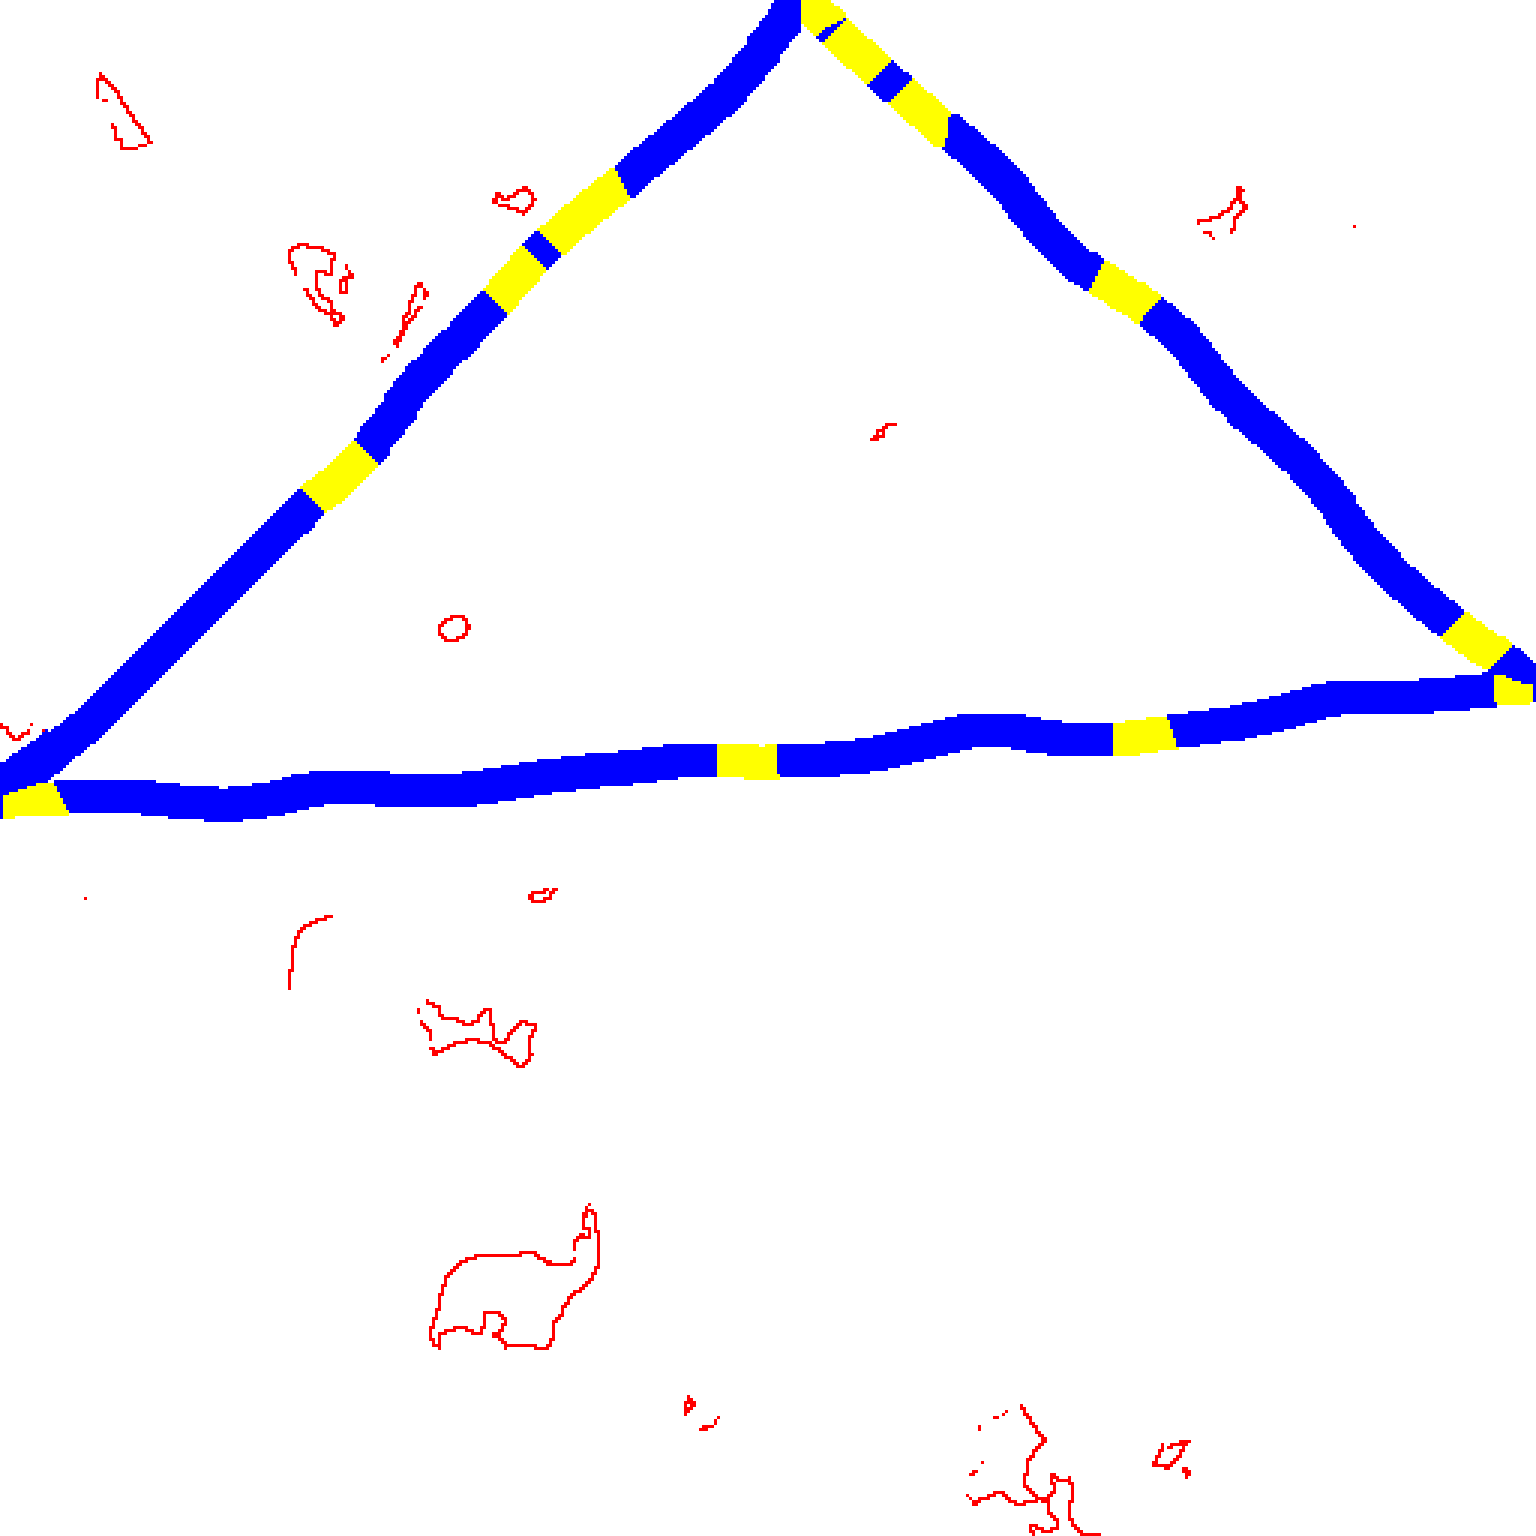
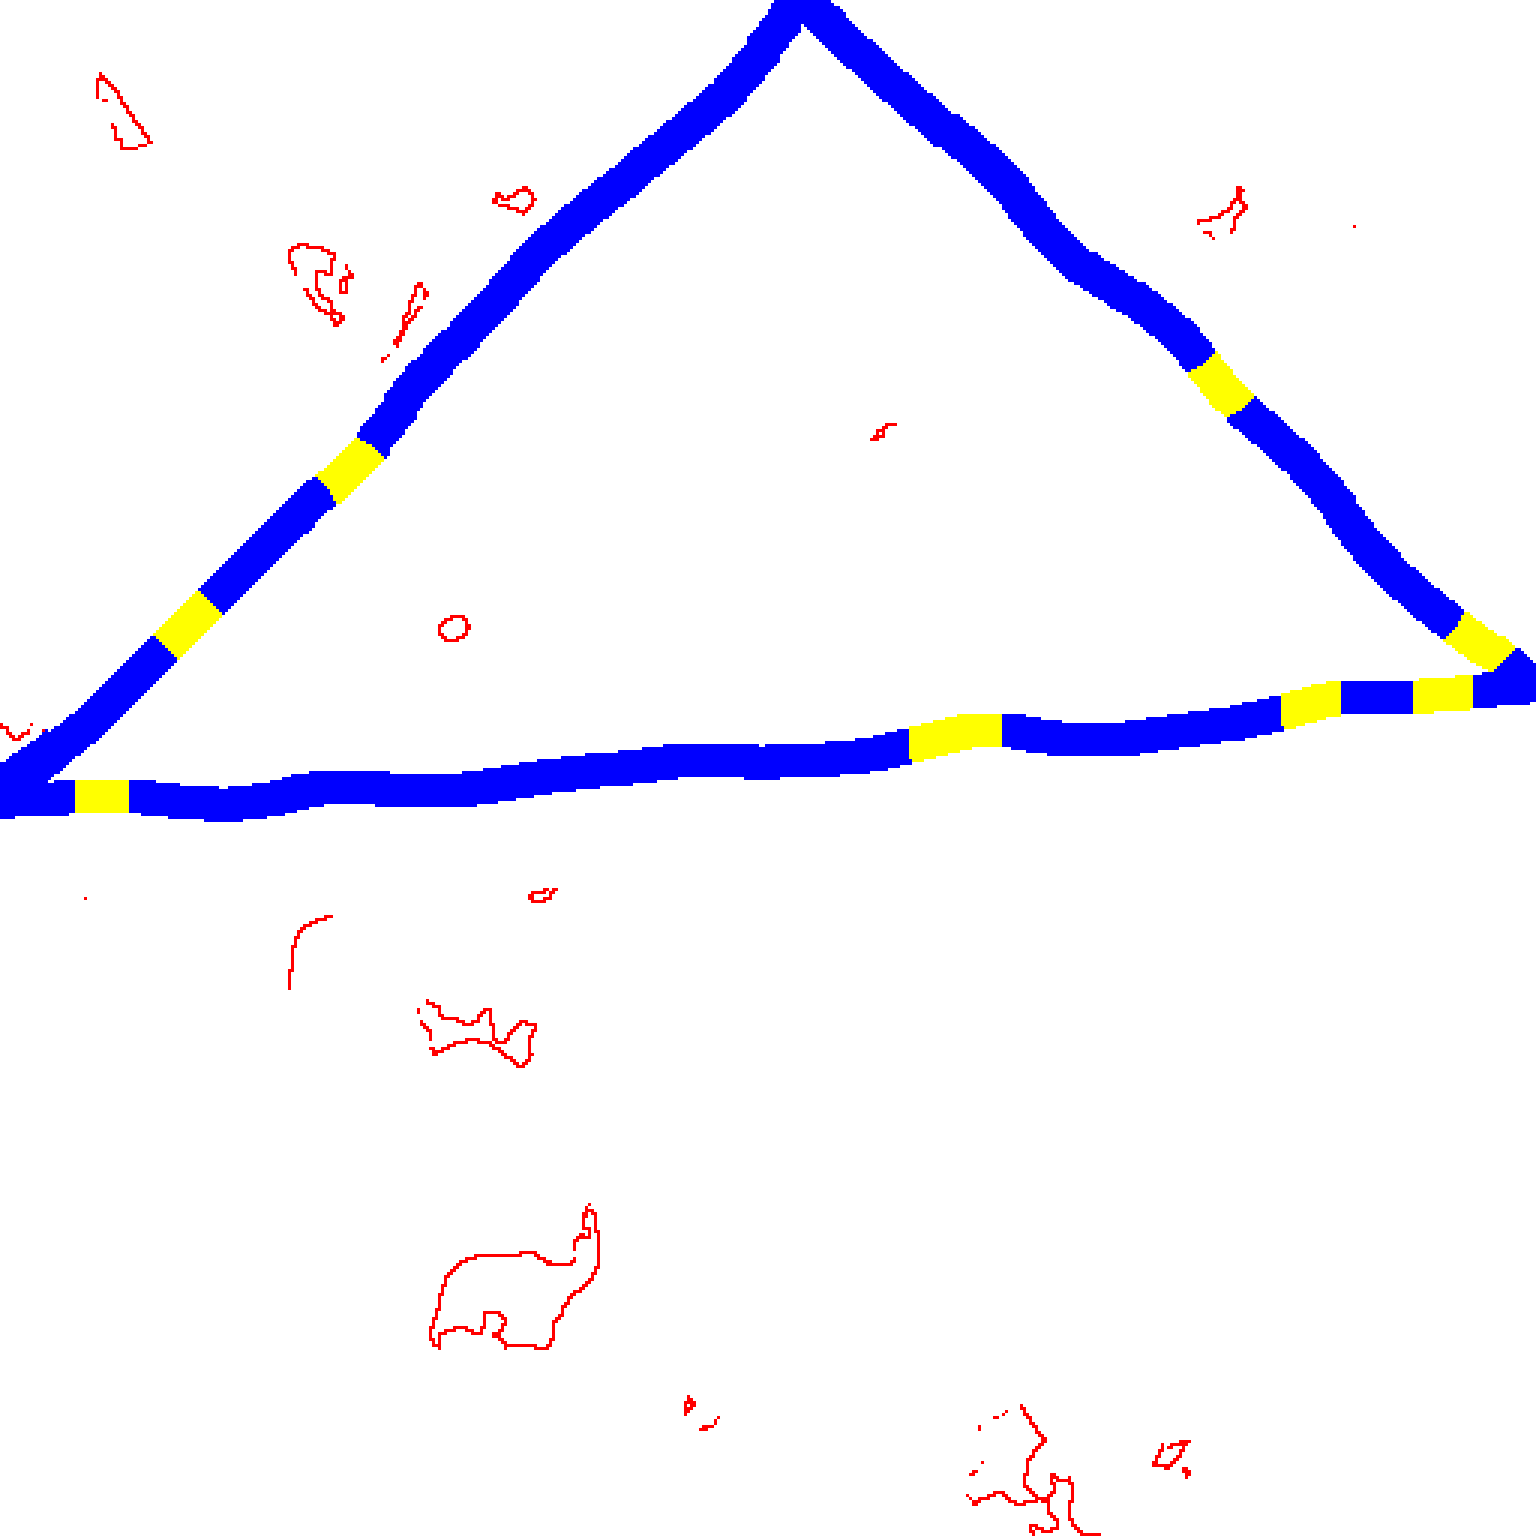
didnt realise the sampling was off when tiles were added along the y axis, also... the 0.001 and the 0.501, those in a good world should be 0 and 0.5 but for whatever reason i guess because of sampling i need that tiny little bit of extra something because otherwise some of the tiles get this black 

diff --git a/staticResources/JS_Externals/TileClass.js b/staticResources/JS_Externals/TileClass.js
@@ -160,8 +160,9 @@ export class Tile{
                     geometry.rotateX(-Math.PI / 2);
 
                     const uvOffset=superHeightMapTexture.getUVOffset(this.x,this.y)//OffsetAndScale[0]
-                    uvOffset.x=uvOffset.x + x*uvScale.x//+x/512                    
-                    uvOffset.y=1.0 - (y+1)*uvScale.y//+y*uvScale.y
+                    console.log(uvOffset ,this.x,this.y)
+                    uvOffset.x=uvOffset.x + x*uvScale.x + 0.001//+x/512                    
+                    uvOffset.y= uvOffset.y+ 0.501 - (y+1)*uvScale.y//+y*uvScale.y
 
                     const material = new THREE.ShaderMaterial({
                         uniforms: {

diff --git a/staticResources/siteJS.js b/staticResources/siteJS.js
@@ -31,7 +31,7 @@ class Template{
 function sceneSetup(SetupInformation){
     const tiles=SetupInformation[0]
     const OriginTile=SetupInformation[1]
-    // console.log(OriginTile,"OriginTile")
+    console.log(OriginTile,"OriginTile")
     scene.background = new THREE.Color('hsl(194, 100%, 71%)');
     
     renderer = new THREE.WebGLRenderer({ antialias: false, alpha: false,powerPreference: "high-performance" });

diff --git a/staticResources/JS_Externals/SuperCanvas.js b/staticResources/JS_Externals/SuperCanvas.js
@@ -41,8 +41,8 @@ class SuperTextureManager{
     }
 
     addTile(x, y, tileImageBitmap) {
-        console.log(`${x},${y}`,"tile requesting updating supertexture")
-        if(this.tiles.get(`${x},${y}`)){return;}
+        // console.log(`${x},${y}`,"tile requesting updating supertexture")
+        // if(this.tiles.get(`${x},${y}`)){return;}
 
         this.resizeIfNeeded(x, y);
 
